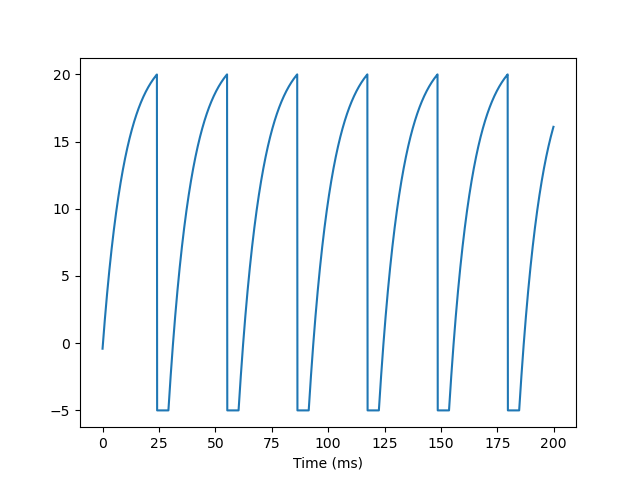
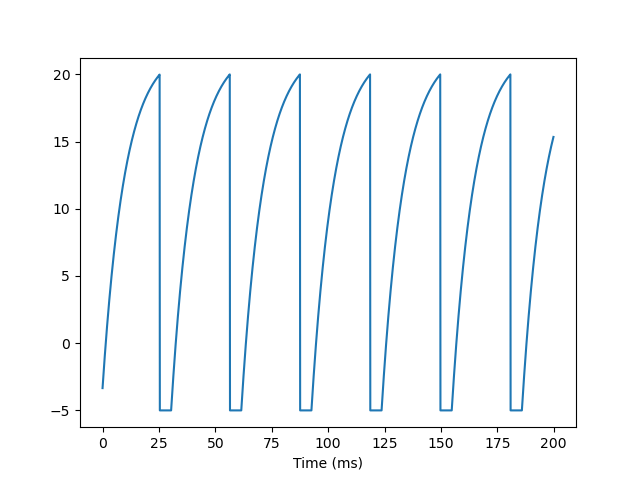
modify LIF and QIF models

Changed region(s): [[0.4062, 0.1562, 0.875, 0.875], [0.1875, 0.1562, 0.4062, 0.875], [0.1562, 0.4062, 0.1875, 0.8125]]

diff --git a/neuron_models/LIF_analysis.py b/neuron_models/LIF_analysis.py
@@ -3,40 +3,33 @@ import subprocess
 from LIF_model import *
 
 import numpy as np
+import matplotlib.pyplot as plt
 
-bm.set_platform('cpu')
+duration = 1000  # 设定仿真时长
+I_cur = np.arange(1, 1001, 10)  # 定义大小为10, 20, ..., 1000的100束电流
 
-duration = 2000  # 设定仿真时长
+neu = LIF(len(I_cur), tau=5., t_ref=5.)  # 定义神经元群
+runner = bp.StructRunner(neu, monitors=['spike'], inputs=('input', I_cur))  # 设置运行器，其中每一个神经元接收I_cur的一个恒定电流
+runner(duration=duration)  # 运行神经元模型
+f_list = runner.mon.spike.sum(axis=0) / (duration / 1000)  # 计算每个神经元的脉冲发放次数
+bp.visualize.line_plot(I_cur, f_list, xlabel='Input current', ylabel='spiking frequency', show=True)  # 画出曲线
 
-# inputs, _ = bp.inputs.constant_input([(0, duration)])
-# # inputs = inputs.astype(float)
-# I_list = [0]
-# for I_ext in range(10, 200, 10):  # 为每个神经元设定不同大小的恒定外部输入
-#   input, _ = bp.inputs.constant_input([(I_ext, duration)])
-#   # input = input.astype(float)
-#   inputs = np.vstack((inputs, input))
-#   I_list.append(I_ext)
-# I_list = bm.array(I_list)
-# inputs = bm.array(inputs)
-
-Icur = np.arange(10, 201, 2)
-Iext= bp.inputs.section_input(values=[Icur], durations=[duration])
-
-neu = LIF(len(Icur), V_rest=-5., V_th=20., t_ref=5.)  # 定义神经元群
-runner = bp.StructRunner(neu, monitors=['V', 'refractory', 'spike'], inputs=('input', Iext, 'iter'))  # 设置运行器
-runner(duration=duration)
-f_list = runner.mon.spike.sum(axis=0) / (duration / 1000)  # 计算每个神经元发放脉冲的次数
-bp.visualize.line_plot(Icur, f_list, xlabel='Input current', ylabel='spiking frequency', show=True)  # 画出曲线
+# plt.plot(I_cur, f_list, marker='.')
+# plt.xlabel('Input current')
+# plt.ylabel('spiking frequency')
+# plt.show()
 
 
 duration = 200
 
-neu = LIF(2, V_rest=-5., V_th=20., t_ref=5.)
-runner = bp.StructRunner(neu, monitors=['V', 'refractory', 'spike'], inputs=('input', bm.asarray([20, 26.])))
+neu1 = LIF(1, t_ref=5.)
+neu1.V[:] = bm.array([-5.])
+runner = bp.StructRunner(neu1, monitors=['V'], inputs=('input', 20))  # 给neu1一个大小为20的恒定电流
 runner(duration)
-# bp.visualize.line_plot(runner.mon.ts, runner.mon.V, xlabel='t', ylabel='V')
-bp.visualize.line_plot(runner.mon.ts, runner.mon.V, plot_ids=[0, 1], xlabel='t', ylabel='V', show=True)
+bp.visualize.line_plot(runner.mon.ts, runner.mon.V, xlabel='t', ylabel='V', legend='input=20', show=False)
 
-# runner = bp.StructRunner(neu, monitors=['V', 'refractory', 'spike'], inputs=('input', 26))
-# runner(duration)
-# bp.visualize.line_plot(runner.mon.ts, runner.mon.V[:, 0], xlabel='t', ylabel='V', show=True)
+neu2 = LIF(1, t_ref=5.)
+neu2.V[:] = bm.array([-5.])
+runner = bp.StructRunner(neu2, monitors=['V'], inputs=('input', 21))  # 给neu2一个大小为21的恒定电流
+runner(duration)
+bp.visualize.line_plot(runner.mon.ts, runner.mon.V, xlabel='t', ylabel='V', legend='input=21', show=True)

diff --git a/neuron_models/theta_model.py b/neuron_models/theta_model.py
@@ -1,0 +1,66 @@
+import brainpy as bp
+import brainpy.math as bm
+
+
+class Theta(bp.NeuGroup):
+	def __init__(self, size, b=0., c=0., t_ref=0., **kwargs):
+		# 初始化父类
+		super(Theta, self).__init__(size=size, **kwargs)
+
+		# 初始化参数
+		self.b = b
+		self.c = c
+		self.t_ref = t_ref
+
+		# 初始化变量
+		self.theta = bm.Variable(bm.random.randn(self.num) * bm.pi / 18)
+		self.input = bm.Variable(bm.zeros(self.num))
+		self.t_last_spike = bm.Variable(bm.ones(self.num) * -1e7)  # 上一次脉冲发放时间
+		self.refractory = bm.Variable(bm.zeros(self.num, dtype=bool))  # 是否处于不应期
+		self.spike = bm.Variable(bm.zeros(self.num, dtype=bool))  # 脉冲发放状态
+
+		# 使用指数欧拉方法进行积分
+		self.integral = bp.odeint(f=self.derivative, method='exponential_euler')
+
+	# 定义膜电位关于时间变化的微分方程
+	def derivative(self, theta, t, I_ext):
+		dthetadt = -bm.cos(theta) + (1. + bm.cos(theta)) * (2 * self.c + 1 / 2 + 2 * self.b * I_ext)
+		return dthetadt
+
+	def update(self, _t, _dt):
+		# 以数组的方式对神经元进行更新
+		refractory = (_t - self.t_last_spike) <= self.t_ref  # 判断神经元是否处于不应期
+		theta = self.integral(self.theta, _t, self.input, dt=_dt) % (2 * bm.pi)  # 根据时间步长更新theta
+		theta = bm.where(refractory, self.theta, theta)  # 若处于不应期，则返回原始膜电位self.theta，否则返回更新后的膜电位V
+		spike = (theta < bm.pi) & (self.theta > bm.pi)  # 将theta从2*pi跳跃到0的神经元标记为发放了脉冲
+		self.spike[:] = spike  # 更新神经元脉冲发放状态
+		self.t_last_spike[:] = bm.where(spike, _t, self.t_last_spike)  # 更新最后一次脉冲发放时间
+		self.theta[:] = theta
+		self.refractory[:] = bm.logical_or(refractory, spike)  # 更新神经元是否处于不应期
+		self.input[:] = 0.  # 重置外界输入
+
+
+# 根据QIF模型的参数计算theta神经元模型的参数
+V_rest = -65.
+V_c = -50.0
+a_0 = .07
+R = 1.
+tau = 10.
+t_ref = 5.
+b = a_0 * R / tau ** 2
+c = a_0 ** 2 / tau ** 2 * (V_rest * V_c - ((V_rest + V_c) / 2) ** 2)
+
+# 运行theta神经元模型
+neu = Theta(1, b=b, c=c, t_ref=t_ref)
+runner = bp.StructRunner(neu, monitors=['theta'], inputs=('input', 18.))
+runner(200)  # 运行时长为200ms
+
+# 可视化
+fig, gs = bp.visualize.get_figure(1, 2, 4.5, 6)
+fig.add_subplot(gs[0, 0])
+bp.visualize.line_plot(runner.mon.ts, runner.mon.theta, ylabel='theta', show=False)
+fig.add_subplot(gs[0, 1])
+bp.visualize.line_plot(bp.math.cos(runner.mon.theta),
+                       bp.math.sin(runner.mon.theta),
+                       xlabel='cos(theta)', ylabel='sin(theta)',
+                       show=True)

diff --git a/neuron_models/QIF_model.py b/neuron_models/QIF_model.py
@@ -1,8 +1,9 @@
 import brainpy as bp
 import brainpy.math as bm
 
+
 class QIF(bp.NeuGroup):
-  def __init__(self, size, V_rest=-65., V_reset=-68., V_th=-30., V_c=-50.0, a_0=.07, R=1., tau=10., t_ref=5., **kwargs):
+  def __init__(self, size, V_rest=-65., V_reset=-68., V_th=-0., V_c=-50.0, a_0=.07, R=1., tau=10., t_ref=5., **kwargs):
     # 初始化父类
     super(QIF, self).__init__(size=size, **kwargs)
 
@@ -17,7 +18,7 @@ class QIF(bp.NeuGroup):
     self.t_ref = t_ref  # 不应期时长
 
     # 初始化变量
-    self.V = bm.Variable(bm.random.randn(self.num) * 5. + V_reset)
+    self.V = bm.Variable(bm.random.randn(self.num) + V_reset)
     self.input = bm.Variable(bm.zeros(self.num))
     self.t_last_spike = bm.Variable(bm.ones(self.num) * -1e7)  # 上一次脉冲发放时间
     self.refractory = bm.Variable(bm.zeros(self.num, dtype=bool))  # 是否处于不应期
@@ -44,8 +45,8 @@ class QIF(bp.NeuGroup):
     self.input[:] = 0.  # 重置外界输入
 
 
-if __name__ == '__main__':
-  group = QIF(10)
-  runner = bp.StructRunner(group, monitors=['V'], inputs=('input', 12.))
-  runner(200)
-  bp.visualize.line_plot(runner.mon.ts, runner.mon.V, show=True)
+# 运行QIF模型
+group = QIF(10)
+runner = bp.StructRunner(group, monitors=['V'], inputs=('input', 12.))
+runner(200)  # 运行时长为200ms
+bp.visualize.line_plot(runner.mon.ts, runner.mon.V, show=True)

diff --git a/neuron_models/LIF_model.py b/neuron_models/LIF_model.py
@@ -1,6 +1,7 @@
 import brainpy as bp
 import brainpy.math as bm
 
+
 class LIF(bp.NeuGroup):
   def __init__(self, size, V_rest=0., V_reset=-5., V_th=20., R=1., tau=10., t_ref=5., **kwargs):
     # 初始化父类
@@ -15,7 +16,7 @@ class LIF(bp.NeuGroup):
     self.t_ref = t_ref  # 不应期时长
 
     # 初始化变量
-    self.V = bm.Variable(bm.random.randn(self.num) * 5. + V_reset)
+    self.V = bm.Variable(bm.random.randn(self.num) + V_reset)
     self.input = bm.Variable(bm.zeros(self.num))
     self.t_last_spike = bm.Variable(bm.ones(self.num) * -1e7)  # 上一次脉冲发放时间
     self.refractory = bm.Variable(bm.zeros(self.num, dtype=bool))  # 是否处于不应期
@@ -42,9 +43,9 @@ class LIF(bp.NeuGroup):
     self.input[:] = 0.  # 重置外界输入
 
 
-if __name__ == '__main__':
-  group = LIF(10)
-  runner = bp.StructRunner(group, monitors=['V'], inputs=('input', 22.))
-  runner(200)
-  bp.visualize.line_plot(runner.mon.ts, runner.mon.V, show=True)
+# 运行LIF模型
+group = LIF(10)
+runner = bp.StructRunner(group, monitors=['V'], inputs=('input', 22.))
+runner(200)  # 运行时长为200ms
+bp.visualize.line_plot(runner.mon.ts, runner.mon.V, show=True)
 
